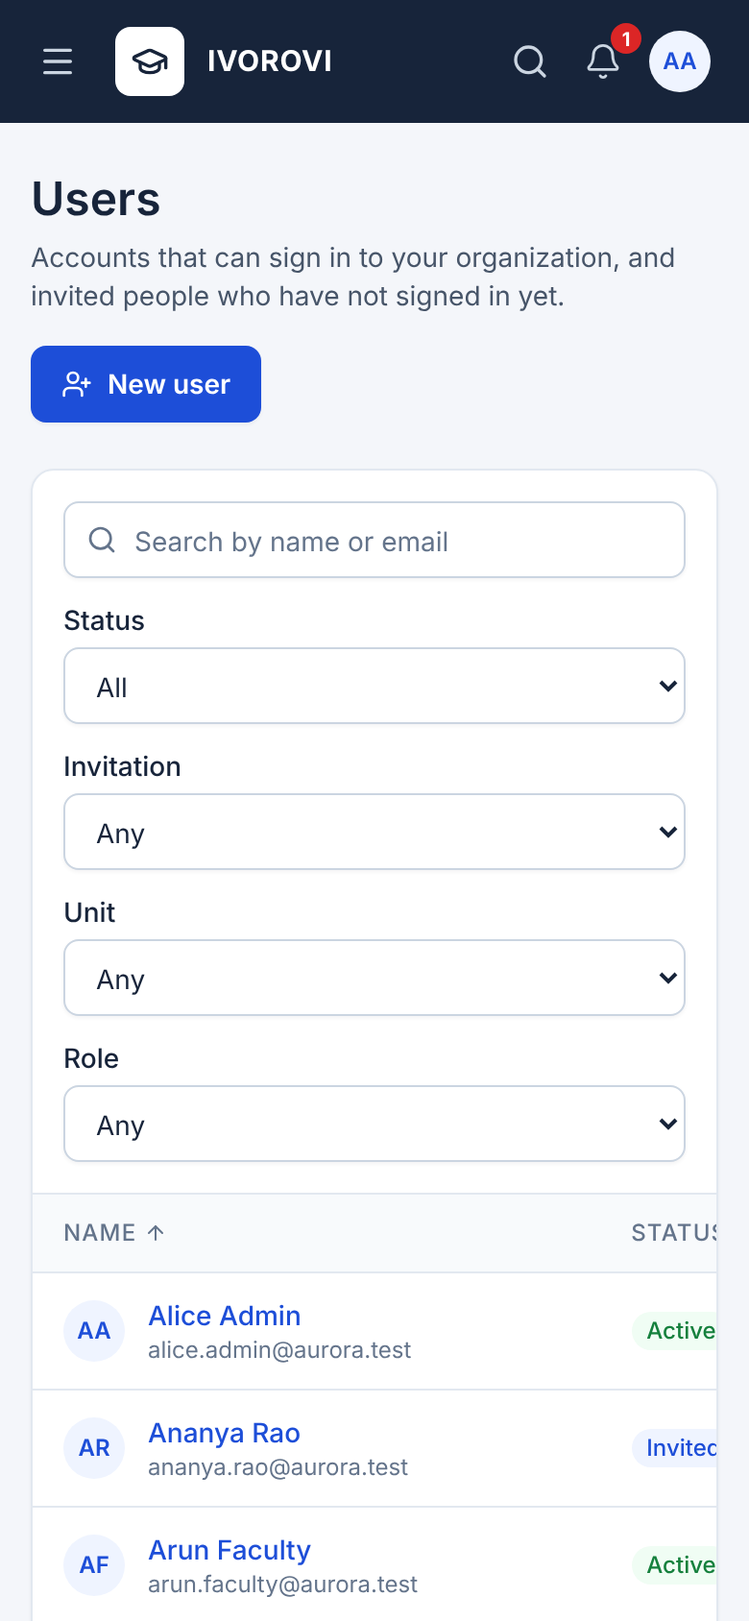
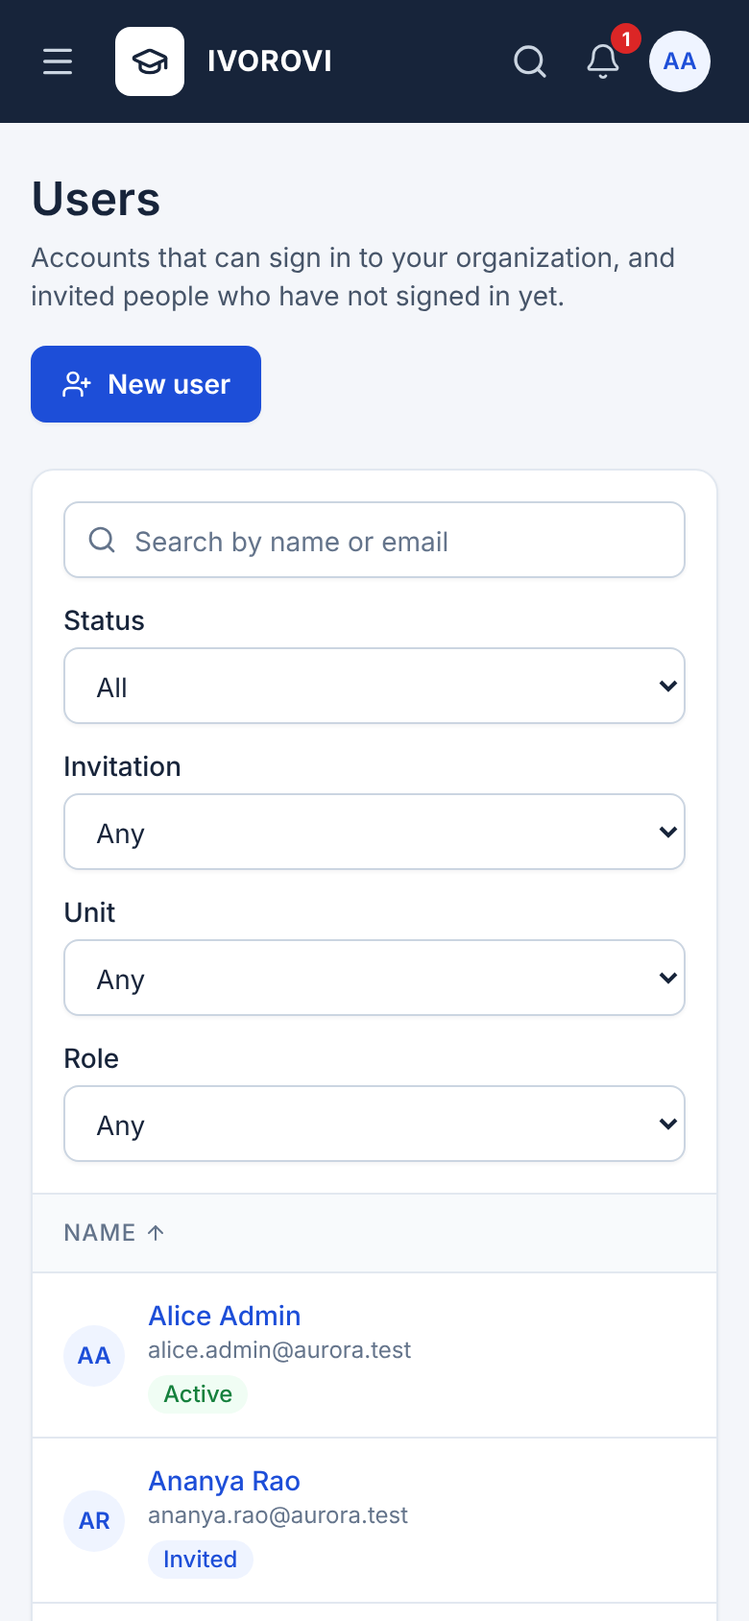
docs(phase-1): increment 1.2 report, tracker, architecture, security and checklist
- increment-1.2.md: scope, security rules, migration and upgrade results, APIs,
  screens, test evidence, defects found and deviations
- tracker: 1.1 accepted (final checks), 1.2 awaiting review, new sequence
  (custom roles in 1.3)
- architecture, domain model, configuration and local-development runbooks,
  security assessment (C23-C26), known issues (KI-32..36), visual checklist
- web: access summary labels assignments inherited from a staff profile; user
  status shown under the name on phones; refreshed screenshots

Claude-Session: https://claude.ai/code/session_019xkx8phRJetHCNvzFyn4sN

diff --git a/frontend/apps/web/src/routes/people/UserListPage.tsx b/frontend/apps/web/src/routes/people/UserListPage.tsx
@@ -58,13 +58,14 @@ export function UserListPage() {
         <span className="min-w-0">
           <Link to={`/people/users/${u.id}`} className="block truncate font-medium text-primary underline-offset-2 hover:underline">{u.displayName}</Link>
           <span className="block truncate text-xs text-muted">{u.email}</span>
+          <span className="mt-1 block md:hidden"><Badge tone={ACCOUNT_STATUS[u.status as AccountStatus].tone}>{ACCOUNT_STATUS[u.status as AccountStatus].label}</Badge></span>
         </span>
       </span>
     ) },
     { key: "units", header: "Assignments", hideOnMobile: true, cell: (u) => <span className="line-clamp-2 text-sm">{(u.units ?? []).join(", ") || "—"}</span> },
     { key: "roles", header: "Roles", hideOnMobile: true, cell: (u) => (u.roles ?? []).length === 0 ? <span className="text-muted">None</span>
       : <span className="flex flex-wrap gap-1">{u.roles!.slice(0, 2).map((r) => <Badge key={r}>{roleName(roles.data, r)}</Badge>)}{u.roles!.length > 2 && <Badge>+{u.roles!.length - 2}</Badge>}</span> },
-    { key: "status", header: "Status", sortable: true, cell: (u) => (
+    { key: "status", header: "Status", sortable: true, hideOnMobile: true, cell: (u) => (
       <span className="flex flex-col items-start gap-1">
         <Badge tone={ACCOUNT_STATUS[u.status as AccountStatus].tone}>{ACCOUNT_STATUS[u.status as AccountStatus].label}</Badge>
         {u.status === "INVITED" && u.invitationStatus !== "PENDING" && <Badge tone={INVITATION_STATE[u.invitationStatus as InvitationState].tone}>Invitation {INVITATION_STATE[u.invitationStatus as InvitationState].label.toLowerCase()}</Badge>}

diff --git a/frontend/apps/web/src/routes/people/UserDetailPage.tsx b/frontend/apps/web/src/routes/people/UserDetailPage.tsx
@@ -244,7 +244,7 @@ function AccessOverview({ userId }: { userId: string }) {
             <Row label="Permissions">{(a.permissions ?? []).length}</Row>
           </dl>
           <p className="mt-4 text-xs font-medium uppercase tracking-wider text-muted">Assignments</p>
-          <ul className="mt-2 space-y-1 text-sm">{(a.assignments ?? []).map((x) => <li key={x.id}>{x.orgUnitName}{x.primary ? " (primary)" : ""}</li>)}</ul>
+          <ul className="mt-2 space-y-1 text-sm">{(a.assignments ?? []).map((x) => <li key={`${x.source}:${x.id}`}>{x.orgUnitName}{x.primary ? " (primary)" : ""}{x.source === "STAFF" && <span className="text-muted"> · via staff profile</span>}</li>)}</ul>
           {a.status !== "ACTIVE" && <Alert tone="warning" className="mt-4">The account is not active, so none of these permissions can be used right now.</Alert>}
         </CardBody>
       </Card>

diff --git a/docs/phase-1/increment-1.2.md b/docs/phase-1/increment-1.2.md
@@ -1,0 +1,85 @@
+# Increment 1.2: user and staff management
+
+* Status: **Implemented and verified; awaiting product-owner review** (authorized 2026-11-02 with the 1.1 acceptance). Increment 1.3 not started.
+* Depends on: 1.1 (accepted subject to the final checks, recorded in `increment-1.1.md`).
+* **Sequence change (product owner, 2026-11-02):** users and staff are 1.2 (the plan had them as 1.3); custom roles and permission configuration are 1.3. The academic calendar moves after them. Plan sections 3.2/5.3/5.4 apply under the new numbers.
+
+## Scope delivered
+
+| Area | Delivered |
+|---|---|
+| Users | Create (status `INVITED`), view, edit profile (first/last name, email, phone), search and filter (status, invitation status, unit subtree, role), sort, pagination; last sign-in (token `auth_time`) |
+| Lifecycle | Suspend ↔ reactivate (temporary), deactivate ↔ activate (left the organization); reason required to suspend/deactivate; login disabled and sessions ended in Keycloak; access ends on the next API request (principal cache evicted) |
+| Invitations | Single-use, expiring (7 days, `IVOROVI_INVITATION_TTL`), 256-bit tokens stored only as SHA-256 hashes; link in the URL **fragment**; resend replaces the token; revoke; expired state; one open invitation per user; delivery status (sent/failed); public lookup and acceptance with per-IP rate limit |
+| Keycloak | Account created only on acceptance, through the confidential client `ivorovi-provisioner` (realm-management `manage-users`, `view-users`, `query-users` only — verified: clients, roles and the master realm return 403). Published port `IdentityProvisioner` |
+| Staff | Profile independent of a login (staff ID unique per organization, case-insensitive; category; designation; contact; employment status and type; joining date); link to / unlink from a user account (one-to-one) |
+| Organizational assignments | Users and staff at organization, university, college, campus or department level; several per person; primary; title; optional dates; removing the last one is refused |
+| Role assignments | Existing system roles (except platform super admin and student) at the organization or any unit; optional end date; revoke with reason (soft, history kept); duplicate refused |
+| Access overview | Account and invitation status, assignments (own and via staff profile), active roles, effective permissions with the scopes and roles that grant them |
+| Dashboard | People KPIs: active users, pending invitations, active staff |
+
+Excluded as instructed: student accounts and lifecycle, custom roles, permission configuration, academics, bulk import, institution SSO.
+
+## Security rules
+
+* **Scope of people.** A person's *units* are their organizational assignments (direct and through a linked staff profile) and the scopes of their active role assignments (organization = whole tenant). A person is visible with `user.read`/`staff.read` on **any** of those units and manageable only with `user.manage`/`staff.manage` on **all** of them, so a college administrator can never act on someone who also belongs to, or holds a role in, another part of the organization.
+* **Anti-escalation.** Assigning or revoking a role needs `role.assign` at the target scope **and** every permission of the role at that scope. Self-assignment and changes to one's own account are refused. Denials are audited (`role.assignment_denied`, `role.self_assignment_denied`).
+* **Last organization administrator** cannot be suspended, deactivated or have the role revoked (`409 last_organization_admin`, advisory lock per tenant).
+* **Email** is trimmed and lower-cased (database check constraint), unique per organization. One Keycloak login belongs to one organization; an invitation to an address already registered for another organization is refused at acceptance (`email_registered_elsewhere`) without revealing it to the inviting administrator (KI-33).
+* **Tokens** never appear in logs, audit details or outbox payloads (tested); the acceptance page removes the fragment from the address bar; request objects redact passwords in `toString`.
+* **Failure order.** Keycloak is changed before the database commits; if Keycloak is unavailable the operation returns `502 identity_provider_unavailable` and nothing changes (tested with a simulated outage).
+
+## Database (`V202611021200__identity_users_staff.sql`)
+
+`user_account` gains given/family name, phone, status reason/time/actor; `external_subject` becomes nullable for invited users (partial unique index; check: required unless INVITED/DEACTIVATED); normalised-email check. New tenant-RLS tables `user_invitation`, `staff_profile`, `org_assignment`; `role_assignment` gains soft revocation. `invitation_tenant(hash)` is a `SECURITY DEFINER` function returning only the tenant of a token hash, so the public page can then run inside normal RLS. Permissions `role.read`, `role.assign`, `staff.read`, `staff.manage` added to system roles (ORG_ADMIN, INSTITUTION_ADMIN; read-only for CAMPUS_ADMIN, DEPARTMENT_HEAD, MANAGEMENT). Existing accounts receive organizational assignments derived from their grants (the TENANT scope becomes the organization). Unit deletion now also counts organizational assignments as dependents.
+
+**Upgrade of the existing development database** (Phase 0 + 1.1 data, 605 accounts): 605 accounts and 605 role assignments preserved; 605 organizational assignments created, one primary each; seeded users map to their units (Alice → organization, Ines/Arun/Asha → AIT).
+
+## APIs (`/api/v1`, OpenAPI in `docs/api/openapi.json`, generated client)
+
+| Method | Path | Permission |
+|---|---|---|
+| GET / POST | `/users` (POST: Idempotency-Key) | `user.read` (scope-filtered) / `user.manage` at the unit |
+| GET / PATCH | `/users/{id}` | visible / manageable |
+| POST | `/users/{id}/status` `{action: SUSPEND\|REACTIVATE\|DEACTIVATE\|ACTIVATE, version, reason}` | manageable, not self |
+| POST | `/users/{id}/invitation` | manageable (send or re-send) |
+| GET | `/users/{id}/access` | visible |
+| GET / POST / DELETE | `/users/{id}/org-assignments[/{aid}]`, `…/{aid}/primary` | visible / manageable + target unit |
+| GET / POST | `/users/{id}/role-assignments`, `…/{aid}/revoke` | visible / `role.assign` + anti-escalation |
+| GET | `/roles` | `role.read` |
+| GET / POST | `/invitations`, `/invitations/{id}/revoke` | `user.read` / manageable |
+| POST | `/public/invitations/lookup`, `/public/invitations/accept` | none (token is the credential; 20 req/min/IP) |
+| GET / POST / PUT | `/staff`, `/staff/{id}`, `/staff/{id}/link`, `/unlink`, `/org-assignments…` | `staff.read` / `staff.manage` (+ `user.manage` to link) |
+
+## Screens
+
+User listing; user details (Overview, Organization, Roles, Access); create/invite and edit user; status dialogs; assign role and revoke dialogs; organizational assignment dialog; invitation management; staff listing; staff details (Overview, Organization); create/edit staff; link user account; public invitation acceptance (outside the signed-in shell, lazy-loaded); People navigation group; dashboard people KPIs.
+
+## Results
+
+| Check | Result |
+|---|---|
+| Backend (JUnit + Testcontainers) | **135 tests** incl. `UserManagementIT` (16), Modulith, permission-catalog consistency, OpenAPI export, 1.0/1.1 suites |
+| Smoke test, real Keycloak tokens | **33 passed**: create + invite, email through Mailpit, public lookup, accept (Keycloak login created by the provisioner), single use, real sign-in, role-less user denied, deactivate → token rejected at once and Keycloak refuses sign-in |
+| Frontend unit tests | **37 passed** |
+| Typecheck / lint | clean |
+| Bundle | initial **174.4 kB gzip** (≤ 180 kB); largest lazy chunk 34.2 kB (≤ 40 kB); the invitation page is a separate chunk |
+| Playwright desktop 1440 / tablet 1024 / mobile | **51 passed** (1.0 and 1.1 suites unchanged and passing): users/filters/access overview, invite → public accept → Keycloak sign-in → assign/revoke role → suspend (Keycloak then refuses sign-in) → deactivate, resend replaces link and revoke, staff without login + duplicate staff ID + second assignment + link to user, scoped admin (own subtree, escalation refused, no self-service), unknown link, no horizontal scrolling on every new screen |
+| Accessibility | axe WCAG 2.1 AA, no serious/critical violations on users list, user access, invitations, staff detail, invitation page |
+| GitHub Actions | recorded in the tracker |
+
+Acceptance criteria 1–20 map to the tests above (creation/invitation 1–3: `Invitations` nested tests + smoke + E2E; lifecycle 4: `Lifecycle`; staff 5–6: `Staff`; assignments and scope 7–9: `Assignments`; escalation 10; cross-tenant 11: `Isolation`; audit 12: assertions on audit rows in each group; cache 13: suspension/role revocation take effect on the next request; migration 14: upgrade + `phase0AndIncrement11AccountsWereMigratedWithAssignments`; 15–20: suites, smoke, Playwright, axe, regressions, CI).
+
+### Defects found during verification
+* Invited users without a login could not be deactivated (check constraint) — fixed, tested.
+* Contrast of the sign-in email label on the acceptance page — fixed (axe).
+* Assignments inherited from a linked staff profile were listed twice in the access summary without their source — labelled.
+* Mobile user table clipped the status column — status shown under the name on phones.
+
+### Not delivered / deviations
+* Pixel-diff visual baselines (KI-26) still open.
+* Email templates are plain text; branded templates and notification preferences remain Phase 2.
+* Changing the email of a user who has signed in is not supported here (the identity provider owns it; `email_locked`).
+* Bulk user import and faculty teaching attributes from plan amendment 1 are outside the 1.2 scope given by the product owner.
+
+Evidence: `docs/design/evidence/1.2/` (41 screenshots, 1440×900, 1024×768, 390×844).

diff --git a/docs/tracker.md b/docs/tracker.md
@@ -6,7 +6,7 @@ Legend: ⬜ not started · 🟨 in progress · ✅ done · ⚠ done with an o
 |---|---|---|---|---|---|---|---|---|
 | 0 | Foundation / platform kernel | 0 | ✅ closed (CI run 41444289316 green) | — | ✅ | ✅ | ✅ 73 BE / 26 FE / 9 E2E | See `phase-0-report.md` §Known issues |
 | 1 | Institution & tenant management | 1 | 🟨 organization hierarchy done (1.1) | 0 | ✅ `/org-units` CRUD, move, status, history, tree, summary; tenant settings | ✅ hierarchy, 4 listings, detail, forms, System Settings | ✅ | Programs/courses (1.3), tenant provisioning (super admin), logo upload (needs ADR-0006) pending |
-| 2 | User & access management | 1 | 🟨 resolution + `/me` | 0, 1 | 🟨 | 🟨 My access | 🟨 | No user/role management APIs; principal cache pending |
+| 2 | User & access management | 1 | 🟨 users, staff, invitations, org and role assignments done (1.2) | 0, 1 | ✅ `/users`, `/staff`, `/invitations`, `/roles`, public invitation endpoints | ✅ users, staff, invitations, access overview, public acceptance page | ✅ | Custom roles and permission configuration (1.3); bulk user import; branded email templates (Phase 2) |
 | 21 | System administration (flags, settings) | 1 / 8 | 🟨 feature flags + terminology/time zone settings | 0 | ✅ | ✅ | ✅ | Maintenance windows pending |
 | 3 | Student & candidate management | 1 (students) / 5 (candidates) | ⬜ planned (Phase 1 inc. 1.6) | 1, 2 | ⬜ | ⬜ | ⬜ | |
 | 19 | Audit & compliance | 2 | 🟨 trail + verification | 0 | ✅ | ✅ | ✅ | Consent, data requests, retention pending |
@@ -34,10 +34,14 @@ Plan approved with Amendment 1 and design system.
 | Increment | Status | Report |
 |---|---|---|
 | 1.0 Platform hardening + design-system shell | ✅ complete and signed off (CI run 41452811631); visual baseline `design/evidence/1.0/` | `phase-1/increment-1.0.md` |
-| 1.1 Organization hierarchy | ✅ implemented and verified, **awaiting review** (CI run 41478606816 green on `344d9f8`); evidence `design/evidence/1.1/` | `phase-1/increment-1.1.md` |
-| 1.2–1.7 | ⬜ (1.2 not started; needs authorization) | |
+| 1.1 Organization hierarchy | ✅ accepted 2026-11-02 subject to six final checks, all passing (`OrgUnitIT.AcceptanceChecks`, CI run 41483588840) | `phase-1/increment-1.1.md` |
+| 1.2 User and staff management | ✅ implemented and verified, **awaiting review** (CI run 41570811520 green on `7f2178b`); evidence `design/evidence/1.2/` | `phase-1/increment-1.2.md` |
+| 1.3 Custom roles and permission configuration | ⬜ not started; needs authorization | |
+| Later | Academic calendar, programs/courses/batches, students (renumbered after 1.3) | `phase-1/plan.md` |
 
-Open decisions: XLSX library (fastexcel) to be requested before 1.6.
+Open decisions: XLSX library (fastexcel) to be requested before the student import increment.
+
+Sequence change (2026-11-02, product owner): users and staff moved to 1.2, custom roles to 1.3; the academic calendar and later increments follow.
 
 ## Decisions
 

diff --git a/docs/architecture/01-product-architecture.md b/docs/architecture/01-product-architecture.md
@@ -98,11 +98,22 @@ from day one, but is not implemented until needed (ADR-0003).
 * **Authentication:** OIDC. Keycloak is the bundled IdP (works in all three topologies, brokers SAML/OIDC/LDAP
   for university SSO, provides MFA). The API is a pure **OAuth2 resource server**, so a customer may swap the IdP.
   Candidates for admission (external users) self-register through a tenant-branded Keycloak realm flow.
+* **Account provisioning (1.2):** Ivorovi invites people by email (single-use, hashed, expiring tokens; link
+  in the URL fragment). On acceptance it creates the Keycloak login through the confidential client
+  `ivorovi-provisioner` (realm-management `manage-users`/`view-users`/`query-users` only) behind the published
+  `IdentityProvisioner` port, and disables it (ending sessions) on suspension or deactivation. Staff profiles
+  exist independently of logins.
 * **Authorization lives in Ivorovi, not in the IdP.** Model:
   * `Permission`: fixed catalog defined in code, e.g. `assessment.publish`, `result.approve`, `proctor.review`.
   * `Role`: a named bundle of permissions. The 15 system roles are seeded and immutable. Tenants create custom roles.
   * `RoleAssignment`: (user, role, **scope**) where scope is `TENANT` or `ORG_UNIT` (implemented), later a
     specific resource (e.g. one assessment for an external evaluator).
+  * Role assignments are soft-revoked (history kept) and may end on a date. Granting follows the
+    anti-escalation rule (increment 1.2): `role.assign` at the scope plus every permission of the role there;
+    no self-assignment; the last organization administrator is protected.
+  * **People scope:** users and staff belong to units through organizational assignments (membership, no
+    permissions). An administrator sees a person with read permission on any of the person's units and manages
+    them only with manage permission on all of them.
   * Effective permission = any assignment whose scope contains the target resource's scope. An `ORG_UNIT`
     assignment covers the unit and its whole subtree (ltree prefix check via `Authz.hasInOrgUnit`; unit paths
     cached in Valkey with after-commit eviction).

diff --git a/docs/architecture/02-domain-model.md b/docs/architecture/02-domain-model.md
@@ -45,6 +45,12 @@ erDiagram
     ORG_UNIT ||--o{ ACADEMIC_TERM : defines
 
     TENANT ||--o{ USER_ACCOUNT : contains
+    USER_ACCOUNT ||--o{ USER_INVITATION : "invited by"
+    TENANT ||--o{ STAFF_PROFILE : employs
+    STAFF_PROFILE |o--o| USER_ACCOUNT : "linked login"
+    USER_ACCOUNT ||--o{ ORG_ASSIGNMENT : "belongs to"
+    STAFF_PROFILE ||--o{ ORG_ASSIGNMENT : "belongs to"
+    ORG_UNIT |o--o{ ORG_ASSIGNMENT : "unit (null = organization)"
     USER_ACCOUNT ||--o{ ROLE_ASSIGNMENT : holds
     ROLE ||--o{ ROLE_ASSIGNMENT : granted_by
     ROLE }o--o{ PERMISSION : bundles
@@ -99,6 +105,16 @@ erDiagram
 * **TenantSettings**: per-type display labels and the organization time zone (optimistic `version`).
 * **UserAccount**: `external_subject` (IdP `sub`, unique per tenant), `email`, `status`, `person_id?`.
   One human can be a student in one tenant and an evaluator in another as separate accounts.
+* **UserAccount (1.2 fields)**: given/family name, phone, normalised email (unique per organization),
+  status `INVITED → ACTIVE ⇄ SUSPENDED`, any → `DEACTIVATED` (→ `ACTIVE`, or `INVITED` if never signed in),
+  status reason/time/actor, last sign-in; `external_subject` set when the invitation is accepted.
+* **UserInvitation**: token SHA-256 hash, `PENDING | ACCEPTED | REVOKED | EXPIRED`, expiry, send count, delivery
+  status; at most one open invitation per account.
+* **StaffProfile**: staff ID (unique, case-insensitive), names, contact, category (faculty, department/academic
+  administrator, evaluator, exam controller, proctor, admissions/placement officer, administrative staff),
+  designation, employment status/type, joining date, optional one-to-one link to a user account.
+* **OrgAssignment**: user *or* staff profile × unit (null = organization), primary flag, title, optional dates.
+  Membership only; permissions come from role assignments.
 * **RoleAssignment**: `(user_id, role_id, scope_type, scope_id, valid_from, valid_to)`. Time-bound
   assignments support external evaluators and invigilators.
 

diff --git a/docs/known-issues.md b/docs/known-issues.md
@@ -35,4 +35,9 @@ Only items verified as fixed by a test or a reproducible check are marked Fixed.
 | KI-29 | Frontend | Create form reused its `Idempotency-Key` after a 4xx answer, so a corrected resubmission was rejected | Medium | Fixed | 1.1: key rotated once the server has answered; covered by the E2E lifecycle test |
 | KI-30 | Accessibility | Breadcrumb links and selected-tree type labels below 4.5:1 on tinted backgrounds | Medium | Fixed | 1.1: `muted-strong` token; axe checks on hierarchy, listing, detail and settings |
 | KI-31 | Visual QA | Full-page screenshots show the fixed sidebar only for the first viewport height (capture artifact, not a layout defect) | Info | Accepted | Evidence capture only |
+| KI-32 | Identity | Invited users without a login could not be deactivated (check constraint) | Medium | Fixed | 1.2, `deactivatingAnInvitedUserRevokesTheInvitation` |
+| KI-33 | Identity | One Keycloak login serves one organization: the same email cannot be invited by two organizations (refused at acceptance with `email_registered_elsewhere`) | Low | Accepted | Multi-organization logins need organization selection at sign-in; revisit with institution SSO (Phase 2) |
+| KI-34 | Identity | Email of a user who has signed in cannot be changed in Ivorovi (identity provider owns it) | Low | Accepted | Change in Keycloak; self-service email change later |
+| KI-35 | Notifications | Invitation emails are plain text; a failed send is shown and can be re-sent but is not retried automatically | Low | Planned | Templates, retries and preferences in Phase 2 (module 17) |
+| KI-36 | Security | Provisioner service account can read the realm summary (`GET /admin/realms/ivorovi` → 200); clients, roles and other realms are denied | Info | Accepted | Keycloak behaviour for any realm-management role; no secrets exposed |
 | KI-19 | Security scanning | Java dependencies were invisible to Trivy (no lockfile) | Medium | Fixed | Gradle dependency locking (`a239681`) |

diff --git a/docs/runbooks/local-development.md b/docs/runbooks/local-development.md
@@ -131,3 +131,23 @@ This deletes all local data. Keycloak re-imports the realm on the next start.
 * **Keycloak realm changes not visible:** realm import only happens when the realm does not exist. Reset (above) or remove the realm in the admin console.
 * **`no_active_account` after login:** the Keycloak user has no matching `user_account` row in the token's tenant. This is expected for `ghost.user`.
 * **Ports in use:** all ports bind to 127.0.0.1. Stop the conflicting local service or change the mapping in `compose.yaml`.
+
+## Upgrading an existing local environment to increment 1.2
+
+Increment 1.2 adds the Keycloak client `ivorovi-provisioner` (creates logins when invitations are accepted).
+
+1. `./scripts/dev-setup.sh` — adds the new `KEYCLOAK_PROVISIONER_SECRET` to `deploy/compose/.env` and keeps
+   every existing secret.
+2. Keycloak imports the realm only on first start (KI-11). Either reset the Keycloak database, or create the
+   client in the running realm:
+
+   ```bash
+   set -a; . deploy/compose/.env; set +a
+   docker exec ivorovi-keycloak-1 bash -c "
+     /opt/keycloak/bin/kcadm.sh config credentials --server http://localhost:8080 --realm master --user admin --password '$KEYCLOAK_ADMIN_PASSWORD' &&
+     /opt/keycloak/bin/kcadm.sh create clients -r ivorovi -s clientId=ivorovi-provisioner -s enabled=true -s publicClient=false \
+       -s serviceAccountsEnabled=true -s standardFlowEnabled=false -s directAccessGrantsEnabled=false -s secret='$KEYCLOAK_PROVISIONER_SECRET' &&
+     /opt/keycloak/bin/kcadm.sh add-roles -r ivorovi --uusername service-account-ivorovi-provisioner --cclientid realm-management \
+       --rolename manage-users --rolename view-users --rolename query-users"
+   ```
+3. Invitation emails arrive in Mailpit (http://localhost:8025); links point to `IVOROVI_APP_BASE_URL`.

diff --git a/docs/security/security-assessment.md b/docs/security/security-assessment.md
@@ -38,6 +38,10 @@
 | C17 | Containers run as non-root (API) | 🟨 | API Dockerfile `USER ivorovi`. The nginx master process runs as root (worker processes do not) |
 | C18 | Rate limiting | ✅ | Increment 1.0: per user/tenant buckets, failed-auth limit per IP; `RateLimitIT` |
 | C19 | Idempotency keys for create/submit | ✅ | Increment 1.0: tenant/user-scoped, RLS; `IdempotencyIT` |
+| C23 | Invitations: 256-bit single-use expiring tokens, SHA-256 at rest, link in URL fragment, never logged/audited, public endpoints rate limited per IP, unknown/used/expired/revoked tokens indistinguishable | ✅ | `UserManagementIT.Invitations` (incl. `tokensAreStoredOnlyAsHashesAndNeverAudited`), smoke test, E2E |
+| C24 | Least-privilege identity provisioning (`ivorovi-provisioner`: manage/view/query-users only) | ✅ | Probe: clients, roles and master realm return 403; secret generated per environment (`KEYCLOAK_PROVISIONER_SECRET`) |
+| C25 | Anti-escalation for role assignment, no self-assignment, last-organization-admin protection, scoped people management (all units) | ✅ | `UserManagementIT.Assignments`, `Lifecycle`, E2E scoped administrator |
+| C26 | Suspension/deactivation take effect on the next request (principal cache eviction) and in Keycloak (disabled, sessions ended) | ✅ | `Lifecycle.suspendReactivateDeactivateActivate`, smoke test, E2E (Keycloak refuses sign-in) |
 | C20 | DAST (OWASP ZAP), external penetration test | ⬜ | Phase 8, plus before first production tenant |
 | C21 | Field-level encryption of sensitive PII | ⬜ | When such fields are introduced (Phase 1 does not store government IDs) |
 | C22 | Production IdP hardening (TLS, MFA policies, brute-force settings beyond dev realm) | ⬜ | Phase 8 deployment work |

diff --git a/docs/runbooks/configuration.md b/docs/runbooks/configuration.md
@@ -28,6 +28,11 @@ Vault, or a cloud secret manager) and never commit them.
 | `IVOROVI_RATE_LIMIT_USER_READ` / `_USER_WRITE` | no | 300 / 60 | Requests per minute per user for GET/HEAD and other methods |
 | `IVOROVI_RATE_LIMIT_TENANT` | no | 3000 | Requests per minute per tenant |
 | `IVOROVI_RATE_LIMIT_FAILED_AUTH_IP` | no | 30 | Failed authentications per minute per client IP before 429 (behind a proxy, configure forwarded headers so the client IP is correct) |
+| `IVOROVI_RATE_LIMIT_PUBLIC_IP` | no | 20 | Requests per minute per client IP to the public invitation endpoints |
+| `IVOROVI_APP_BASE_URL` | yes for invitations | http://localhost:5173 | Public URL of the web app; invitation links point to `{url}/invitation#token=…` |
+| `IVOROVI_INVITATION_TTL` | no | P7D | Invitation validity (ISO-8601 duration) |
+| `IVOROVI_IDP_ADMIN_URL` / `IVOROVI_IDP_REALM` | yes for provisioning | http://localhost:8180 / ivorovi | Keycloak base URL reachable from the API, and realm |
+| `IVOROVI_IDP_PROVISIONER_CLIENT_ID` / `IVOROVI_IDP_PROVISIONER_SECRET` | yes for provisioning | ivorovi-provisioner / — | Confidential client whose service account holds only realm-management `manage-users`, `view-users`, `query-users` (D-P1-04) |
 | `IVOROVI_OPENAPI_ENABLED` | no | true (false with `prod` profile) | Exposes `/v3/api-docs` and Swagger UI |
 | `SPRING_PROFILES_ACTIVE` | no | — | `prod` enables JSON (ECS) logs. Never use `dev` or `seed` outside development |
 
